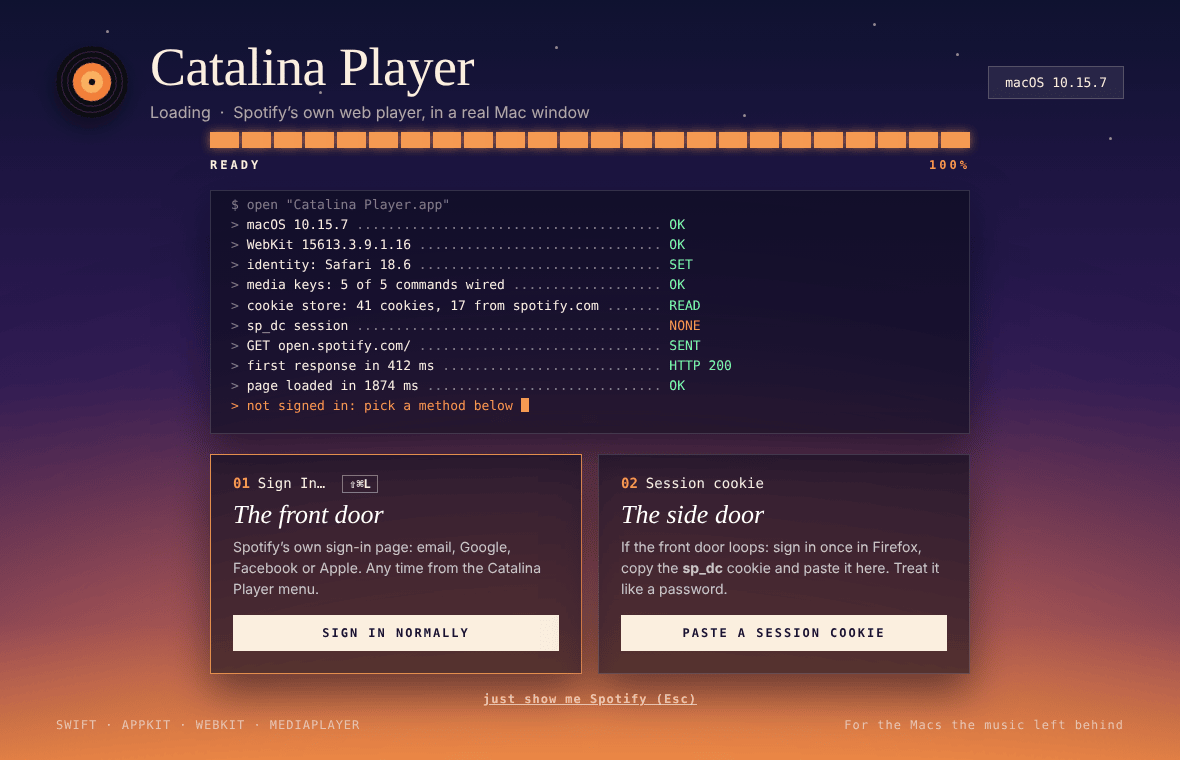
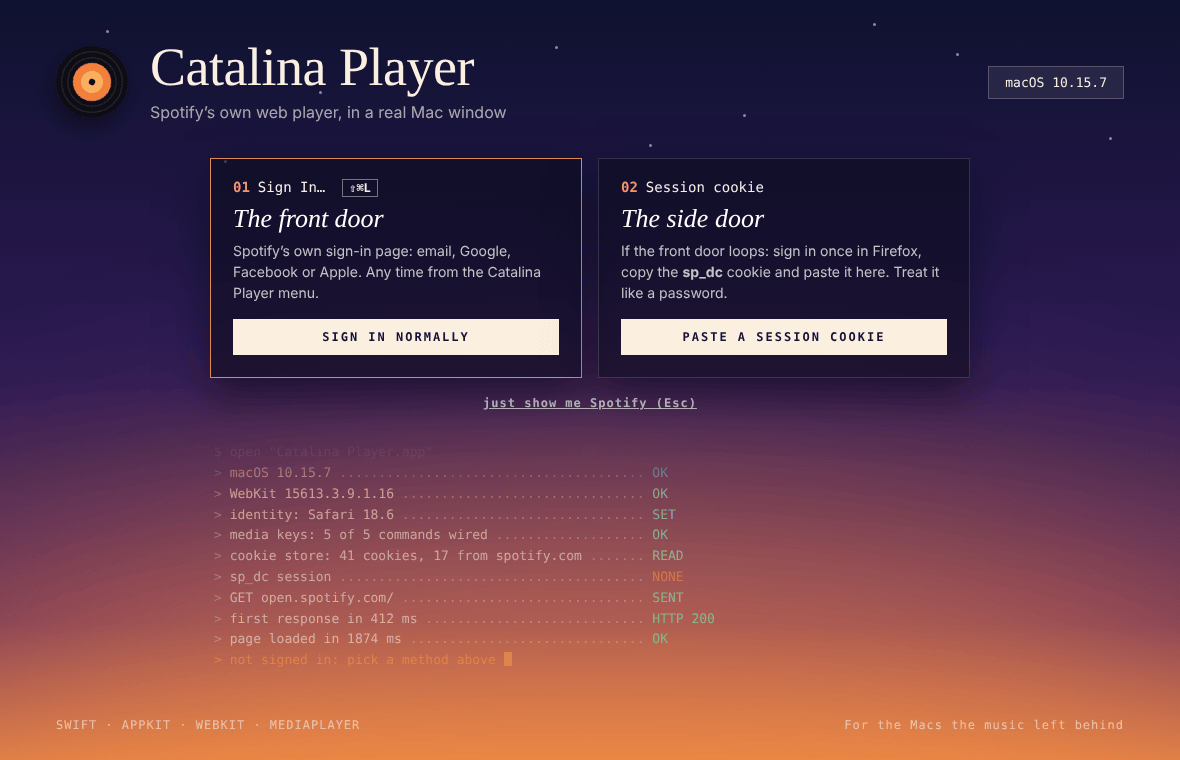
Welcome screen: sign-in up top, no loading bar, see-through log
Same dusk style as the How it works diagram with square corners. The
two sign-in methods appear at the top as soon as the cookie check finds
no session; the log of real start-up events sits beneath, translucent.
The macOS chip shows the real version.

Claude-Session: https://claude.ai/code/session_018wdzkgQZC4SFHNRxC2x5jv

diff --git a/Sources/Splash.swift b/Sources/Splash.swift
@@ -29,21 +29,16 @@ enum Splash {
   h1 { font:400 54px/1 "Instrument Serif", Baskerville, "Hoefler Text", Georgia, serif; color:var(--cream); letter-spacing:-.5px; }
   .sub { color:var(--dim); font-size:16px; margin-top:6px; }
   .chip { font:500 13px Menlo, monospace; color:var(--cream); padding:8px 16px; border:1px solid rgba(255,255,255,.2); background:rgba(255,255,255,.08); }
-  main { flex:1; display:flex; flex-direction:column; justify-content:center; width:min(760px, 100%); margin:0 auto; }
-  .bar { display:flex; height:16px; }
-  .seg { flex:1; margin-right:3px; background:rgba(255,255,255,.08); }
-  .seg:last-child { margin-right:0; }
-  .seg.on { background:var(--orange); box-shadow:0 0 10px rgba(245,154,82,.6); }
-  .meta { display:flex; justify-content:space-between; margin:10px 0 18px; font:700 12px Menlo, monospace; letter-spacing:3px; color:var(--cream); }
-  .meta .n { color:var(--orange); }
+  main { flex:1; display:flex; flex-direction:column; width:min(760px, 100%); margin:34px auto 0; }
   .blink { animation:blink 1s steps(1) infinite; }
   @keyframes blink { 50% { opacity:0; } }
-  .term { height:244px; overflow:hidden; padding:16px 20px; background:rgba(11,11,28,.62); border:1px solid var(--line);
-    font:13px/1.55 Menlo, monospace; box-shadow:0 18px 40px rgba(5,2,20,.5); }
+  .term { flex:1; min-height:120px; max-height:260px; overflow:hidden; padding:6px 4px;
+    font:13px/1.6 Menlo, monospace; opacity:.55; background:none; border:0;
+    -webkit-mask-image:linear-gradient(180deg, transparent 0, #000 22%, #000 100%); }
   .term .l { white-space:pre; overflow:hidden; text-overflow:ellipsis; color:var(--cream); }
   .ok { color:var(--green); } .warn { color:var(--orange); } .mute { color:rgba(255,255,255,.45); }
   .cursor { display:inline-block; width:8px; height:14px; background:var(--orange); vertical-align:-2px; animation:blink 1s steps(1) infinite; }
-  .signin { margin-top:20px; display:none; }
+  .signin { margin-bottom:22px; display:none; }
   .signin.show { display:block; animation:rise .4s ease-out; }
   @keyframes rise { from { transform:translateY(8px); opacity:0; } }
   .methods { display:flex; }
@@ -70,14 +65,11 @@ enum Splash {
   <header>
     <div class="brand">
       <div class="vinyl"></div>
-      <div><h1>Catalina Player</h1><div class="sub">Loading &nbsp;&middot;&nbsp; Spotify&rsquo;s own web player, in a real Mac window</div></div>
+      <div><h1>Catalina Player</h1><div class="sub">Spotify&rsquo;s own web player, in a real Mac window</div></div>
     </div>
     <div class="chip" id="chip">macOS</div>
   </header>
   <main>
-    <div class="bar" id="bar"></div>
-    <div class="meta"><span id="label">LOADING<span class="blink">_</span></span><span class="n" id="pct">0%</span></div>
-    <div class="term" id="term"></div>
     <div class="signin" id="signin">
       <div class="methods">
         <div class="m"><div class="top"><b>01</b>Sign In&hellip; &nbsp;<kbd>&#8679;&#8984;L</kbd></div>
@@ -91,6 +83,7 @@ enum Splash {
       </div>
       <button class="skip" id="b3">just show me Spotify (Esc)</button>
     </div>
+    <div class="term" id="term"></div>
   </main>
   <footer><span>SWIFT &middot; APPKIT &middot; WEBKIT &middot; MEDIAPLAYER</span><span>For the Macs the music left behind</span></footer>
 </div>
@@ -98,19 +91,12 @@ enum Splash {
 (function () {
   // Everything printed here is sent by the app as it happens: real versions, real checks,
   // real timings. The page only draws it.
-  var bar = document.getElementById('bar'), term = document.getElementById('term');
+  var term = document.getElementById('term');
   [[9,4],[27,12],[47,6],[63,15],[81,7],[94,18],[19,21],[74,3],[55,19]].forEach(function (p) {
     var st = document.createElement('div'); st.className = 'star'; st.style.left = p[0] + '%'; st.style.top = p[1] + '%';
     document.body.insertBefore(st, document.body.firstChild); });
-  var segs = [], shown = 0, target = 0;
-  for (var i = 0; i < 24; i++) { var s = document.createElement('div'); s.className = 'seg'; bar.appendChild(s); segs.push(s); }
+  var signinShown = false;
   function post(action) { try { window.webkit.messageHandlers.catalinaSplash.postMessage({ action: action }); } catch (e) {} }
-  setInterval(function () {
-    if (shown < target) shown = Math.min(target, shown + 1);
-    document.getElementById('pct').textContent = shown + '%';
-    var on = Math.round(shown / 100 * segs.length);
-    for (var i = 0; i < segs.length; i++) segs[i].className = 'seg' + (i < on ? ' on' : '');
-  }, 18);
   function esc(t) { return String(t).replace(/&/g, '&amp;').replace(/</g, '&lt;').replace(/>/g, '&gt;'); }
   function add(html) {
     var old = term.querySelector('.cursor'); if (old) old.remove();
@@ -130,17 +116,17 @@ enum Splash {
       } else {
         add('<span class="' + (o.c || '') + '">' + t + '</span>');
       }
-      if (o.p) target = Math.max(target, o.p);
+    },
+    session: function (signedIn) {
+      if (!signedIn && !signinShown) { signinShown = true; document.getElementById('signin').className = 'signin show'; }
     },
     done: function (signedIn) {
-      target = 100;
-      document.getElementById('label').textContent = 'READY';
       if (signedIn) {
         add('<span class="ok">&gt; signed in. press play.</span>  <span class="mute">sign-in options any time: &#8679;&#8984;L</span>');
         setTimeout(function () { post('skip'); }, 1800);
       } else {
-        add('<span class="warn">&gt; not signed in: pick a method below</span>');
-        document.getElementById('signin').className = 'signin show';
+        add('<span class="warn">&gt; not signed in: pick a method above</span>');
+        window.cp.session(false);
       }
     }
   };

diff --git a/Sources/PlayerWindowController.swift b/Sources/PlayerWindowController.swift
@@ -285,6 +285,7 @@ final class PlayerWindowController: NSWindowController, NSWindowDelegate, WKNavi
                 self.splashLog("sp_dc session", "NONE", cls: "warn", pct: 40)
             }
             self.splashSession = session != nil
+            self.splashCall("window.cp.session(\(session != nil))")
             self.finishSplashIfReady()
         }
     }

diff --git a/README.md b/README.md
@@ -33,7 +33,7 @@ It doesn't imitate Spotify, rebuild it or tinker with it. It opens **open.spotif
 
 ## 📟 The loading screen
 
-Every launch opens on a loading screen (same dusk look as the diagram above, with an old-school progress bar) with a live log of what the app is actually doing: your macOS and WebKit versions, the media keys being wired, what's in the cookie store, and the real request and load times for Spotify's page. If you're signed in it gets out of the way by itself. If you're not, it shows the two ways in: **Method 01**, Spotify's normal sign-in (⇧⌘L any time), and **Method 02**, the session cookie from Firefox. Bring it back from *Catalina Player → Show Loading Screen*.
+Every launch opens on a loading screen (same dusk look as the diagram above, with an old-school progress bar) with a live log of what the app is actually doing: your macOS and WebKit versions, the media keys being wired, what's in the cookie store, and the real request and load times for Spotify's page. If you're signed in it gets out of the way by itself. If you're not, the two ways in appear at the top as soon as it knows: **Method 01**, Spotify's normal sign-in (⇧⌘L any time), and **Method 02**, the session cookie from Firefox. Bring it back from *Catalina Player → Show Loading Screen*.
 
 <p align="center"><img src="docs/loading-screen.png" alt="Loading screen in the same dusk style as the diagram: spinning vinyl, Catalina Player title, macOS version, an orange segmented progress bar, a terminal log of real start-up checks, and two sign-in methods: the front door and the side door" width="100%"></p>
 
